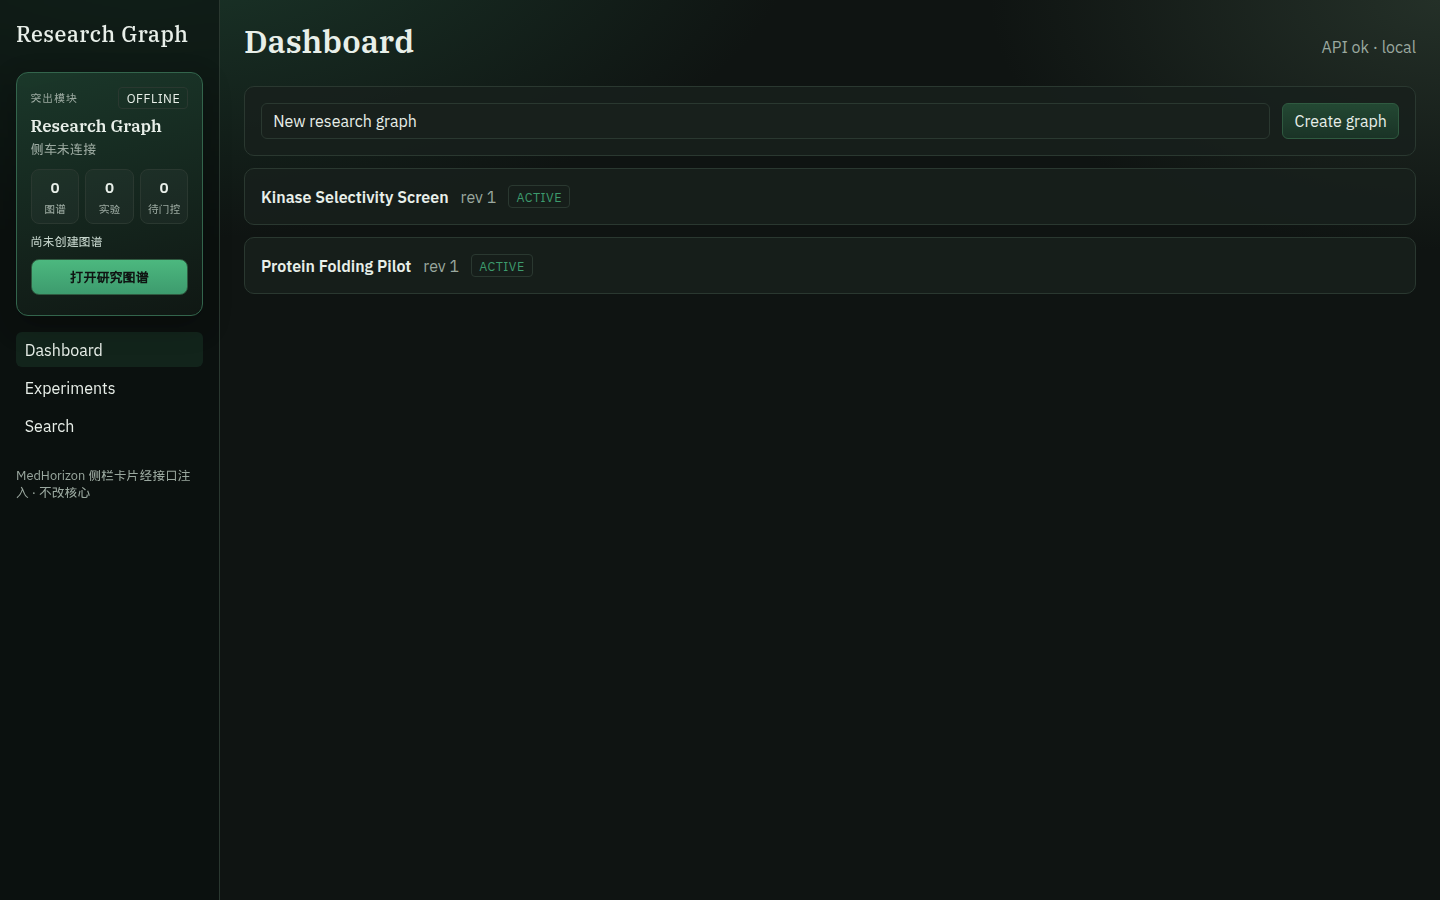
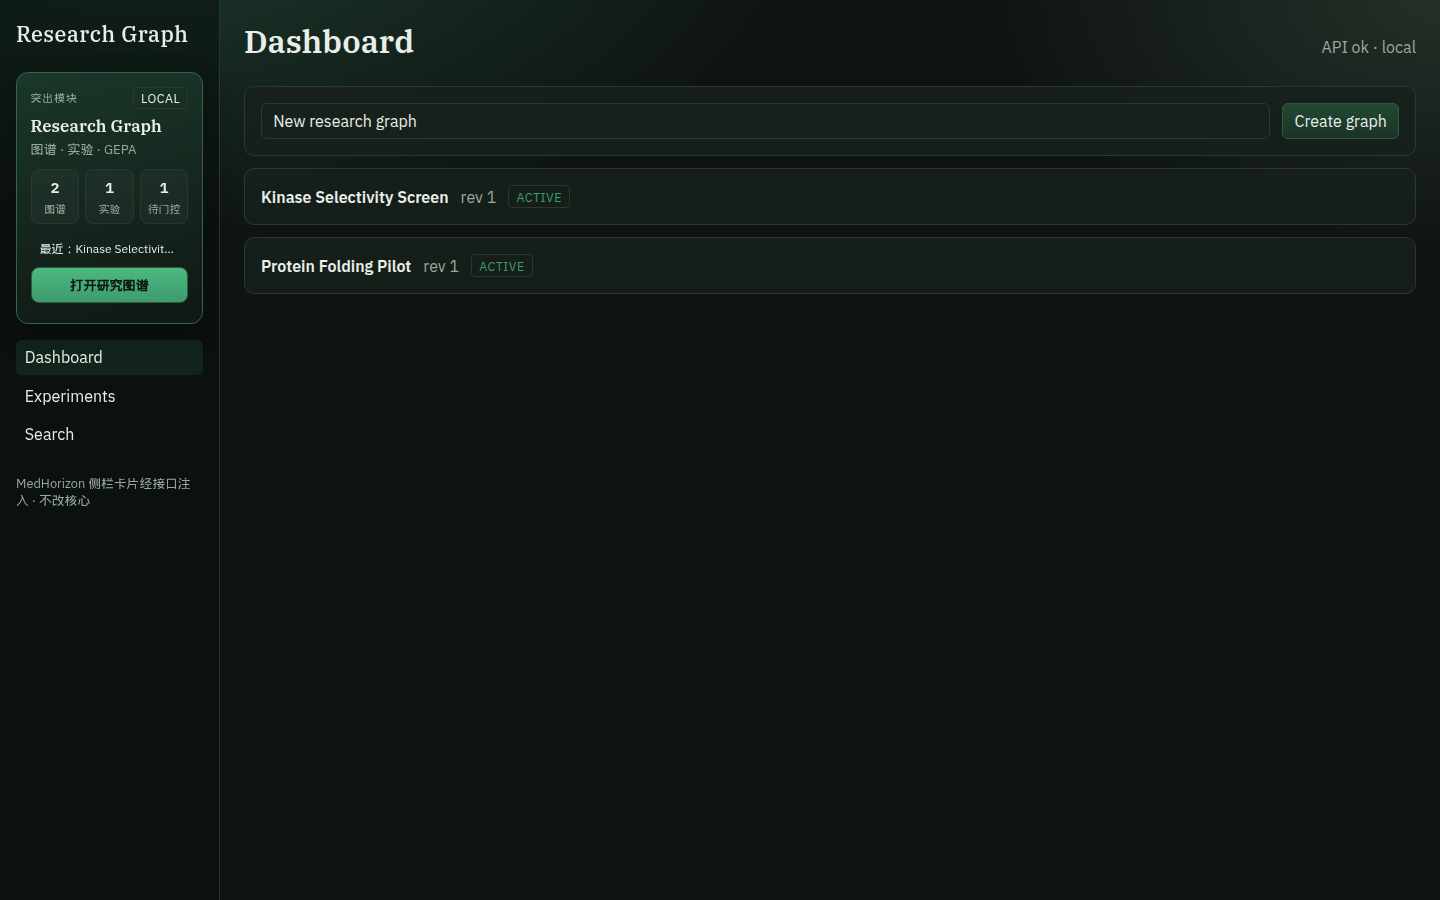
fix(research-graph): proxy integration API; refresh sidebar screenshots
Vite proxies /integration and embed assets so SidebarCard gets live
metrics; keep /embed/card as the React iframe route.

diff --git a/research-graph/frontend/vite.config.ts b/research-graph/frontend/vite.config.ts
@@ -9,6 +9,10 @@ export default defineConfig({
     proxy: {
       "/api": "http://127.0.0.1:8000",
       "/health": "http://127.0.0.1:8000",
+      "/integration": "http://127.0.0.1:8000",
+      "/embed/sidebar-card.js": "http://127.0.0.1:8000",
+      "/embed/sidebar-card.css": "http://127.0.0.1:8000",
+      "/embed/bookmarklet": "http://127.0.0.1:8000",
     },
   },
 })
